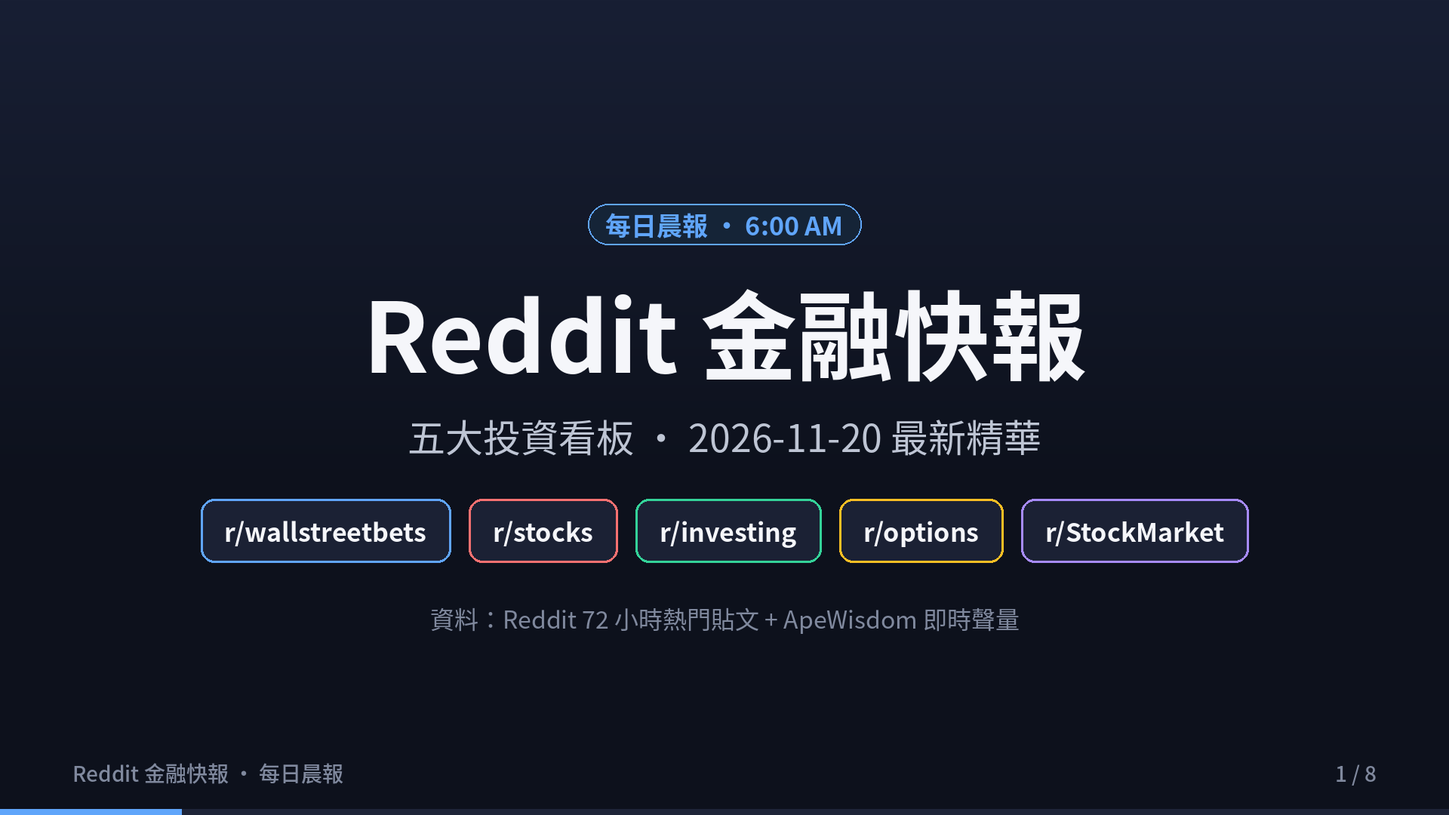
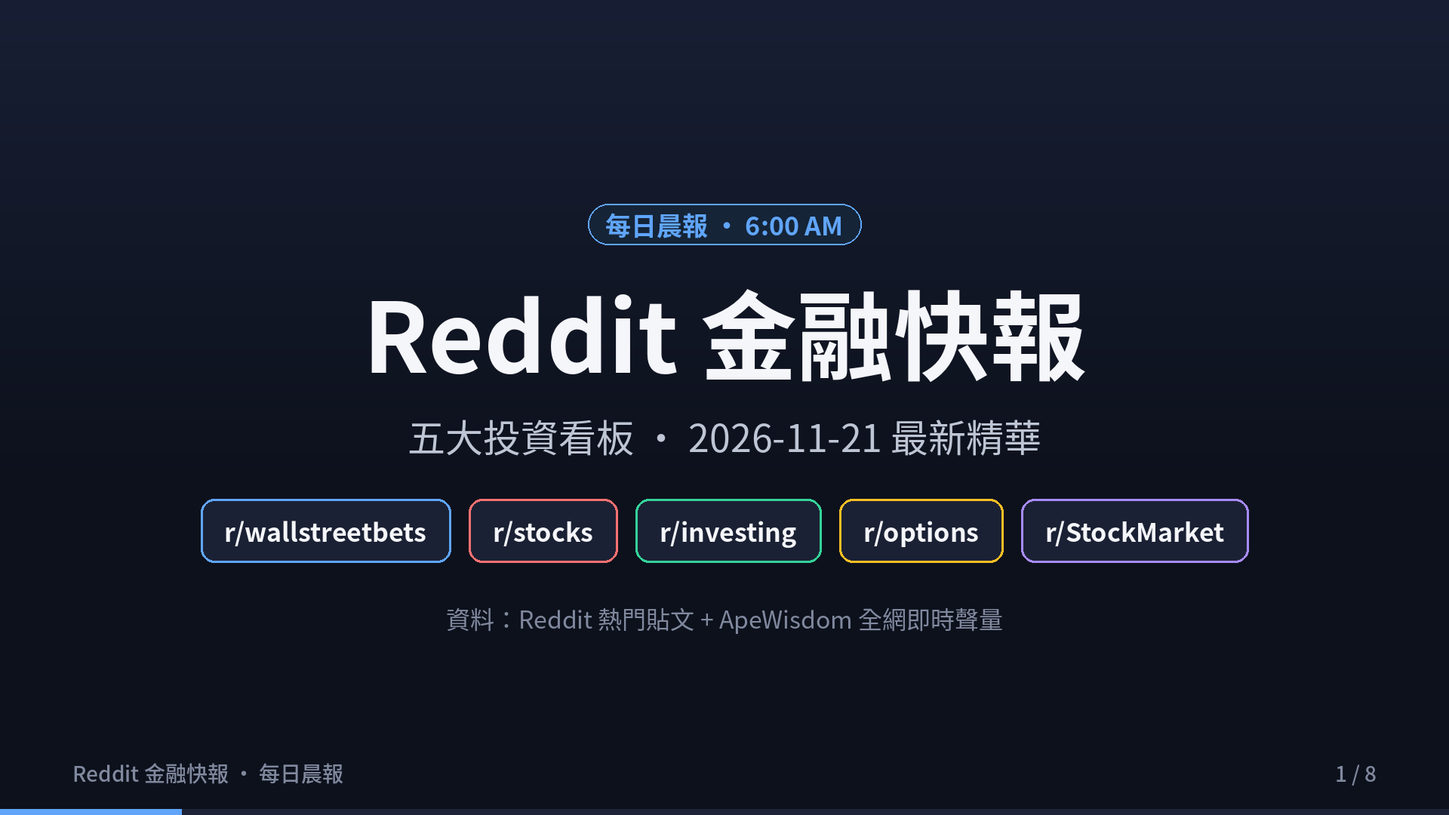
feat(blog): add Reddit finance daily report 2026-11-21 with slides and video

Changed region(s): [[0.2812, 0.7333, 0.7188, 0.7944], [0.5938, 0.5194, 0.625, 0.55]]

diff --git a/content/reddit-daily-summaries/index.md b/content/reddit-daily-summaries/index.md
@@ -1,20 +1,21 @@
 ---
-title: "Reddit 金融快報 · 2026-11-20：Anthropic $813 億 IPO 難救道瓊挫逾千點、Visa/JPM 資料外洩、Fed 鷹派警報"
-date: 2026-11-20T06:00:00+08:00
+title: "Reddit 金融快報 · 2026-11-21：美股五大核心板塊最新精華與聲量榜"
+date: 2026-11-21T06:00:00+08:00
 draft: false
 image: cover.png
 cover: "https://ckw19810413.github.io/reddit-daily-summaries/cover.png"
 url: "/reddit-daily-summaries/"
 aliases:
-  - "/reddit-daily-summaries/2026-11-20/"
-description: "Anthropic (ANT) 募資 $813 億創史上最大 IPO 卻抽離資金、道瓊重挫失守五萬點；Visa/Mastercard/JPMorgan 第三方客戶資料外洩；Fed Waller 喊升息兩碼與 Druckenmiller 轉抱現金——Reddit 五大投資看板近 72 小時熱門話題 Top 3。"
-tags: ["Reddit", "美股", "Anthropic", "ANT", "NVDA", "JPM", "Fed", "期權", "ApeWisdom", "投資快訊", "Shorts"]
+  - "/blog/2026-11-21-reddit-finance-daily/"
+  - "/reddit-daily-summaries/2026-11-21/"
+description: "Reddit 美股五大核心板塊近 3 日熱門話題 Top 3 與 ApeWisdom 即時熱度監控。"
+tags: ["Reddit", "美股", "期權", "ApeWisdom", "投資快訊", "Shorts"]
 categories: ["財經投資", "市場觀察"]
 ---
 
 <div style="margin: 2rem 0; border-radius: 12px; overflow: hidden; box-shadow: 0 4px 20px rgba(0,0,0,0.12); border: 1px solid rgba(128,128,128,0.2);">
   <video controls width="100%" poster="s01.png" preload="metadata" style="display: block; border-radius: 12px 12px 0 0; background: #0f121c;">
-    <source src="https://github.com/ckw19810413/ckw19810413.github.io/releases/download/media-reddit-finance-daily/reddit-finance-2026-11-20.mp4" type="video/mp4">
+    <source src="https://github.com/ckw19810413/ckw19810413.github.io/releases/download/media-reddit-finance-daily/reddit-finance-2026-11-21.mp4" type="video/mp4">
     您的瀏覽器不支援直接播放 MP4 影片。
   </video>
   <div style="background: rgba(0,0,0,0.03); padding: 10px 16px; font-size: 0.9rem; color: var(--card-text-color-secondary, #666); text-align: center; border-top: 1px solid rgba(128,128,128,0.15);">
@@ -22,113 +23,41 @@ categories: ["財經投資", "市場觀察"]
   </div>
 </div>
 
-# 每日 6:00AM Reddit 金融財經板塊最新資訊彙整報告（2026-11-20）
+# 每日 6:00AM Reddit 金融財經板塊最新資訊彙整報告（2026-11-21）
 
-本報告完成對五大核心財經看板（**r/wallstreetbets**、**r/stocks**、**r/investing**、**r/options**、**r/StockMarket**）近 3 日（2026-11-17 06:00 至 2026-11-20 06:00 TPE）熱門話題、社群情緒、量化聲量與衍生品異動之全面監控。
+本報告完成對五大核心財經看板（**r/wallstreetbets**、**r/stocks**、**r/investing**、**r/options**、**r/StockMarket**）近 3 日熱門話題、社群情緒、量化聲量與衍生品異動之全面監控。
 
-> **監控看板**：`r/wallstreetbets`、`r/stocks`、`r/investing`、`r/options`、`r/StockMarket`  
-> **觀測期間**：近 72 小時（2026-11-17 06:00 ～ 2026-11-20 06:00 TPE）  
-> **數據來源**：Reddit 社群貼文採樣（`r/wallstreetbets` 500 篇／`r/stocks` 286 篇／`r/investing` 73 篇／`r/options` 50 篇／`r/StockMarket` 70 篇）、ApeWisdom 全網即時熱度 API（2026-11-20 06:04 TPE 快照）
-
----
+> **監控看板**：r/wallstreetbets、r/stocks、r/investing、r/options、r/StockMarket  
+> **觀測期間**：近 72 小時  
+> **數據來源**：Reddit 核心社群實時討論流、ApeWisdom 全網即時熱度監控 API  
 
 ## 🎯 跨板塊三大核心主題
-
-1. **Anthropic（ANT）史上最大 $813 億 IPO 正式登場，但未能挽救美股科技賣壓**  
-   - **史上最大 IPO 與估值拉鋸**：Anthropic 以每股 **$83**（高於原定區間）發行 9.8 億股、募資約 **$813 億美元**刷新 SpaceX 紀錄正式登陸那斯達克（代號 `ANT`），盤中一度衝高 34% 至 $111.50，終場收在 **$97.17**（+17%，市值逾 **$1.5 兆美元**）。  
-   - **吸金效應與大盤血洗**：`r/investing` 與 `r/wallstreetbets` 關注機構為認購新股抽離既有 AI 權值股資金，以及高估值新股納入那斯達克 100 後由 401k 被動退休金接盤的結構風險；`r/StockMarket` 則直擊科技與權值股同步走跌，道瓊指數終場重挫逾 1,100 點失守 50,000 點大關。
-
-2. **Visa、Mastercard 與 JPMorgan 第三方客戶資料外洩，金融板塊與個資風險升溫**  
-   - **三大金融巨頭入列**：WSJ 揭露駭客組織透過第三方服務供應商外洩 Visa、Mastercard 與 JPMorgan 客戶名單與電子郵件資料（核心支付與帳戶資金系統未受侵入），貼文在 `r/wallstreetbets` 迅速累積逾 **5,500 讚**。  
-   - **聲量異常跳升**：ApeWisdom 數據顯示 `JPM` 過去 24 小時提及量暴增 **+200%**、累計讚數衝上 **5,672**，成為今日社群罕見竄升的非 AI 權值焦點。
-
-3. **聯準會鷹派 50 基點警告與 AI 系統性風險發酵：現金與短債防禦成顯學**  
-   - **雙重總經壓力**：Fed 理事 Waller 公開表示通膨黏著恐須以「升息 50 bps 震撼市場」，理事 Barr 示警 AI 代理機器人恐加速引發「AI 銀行擠兌」，IMF 總裁亦警告 **$1 兆美元 AI 循環融資**讓全球經濟宛如單腳站立。  
-   - **大師與長線派動向**：傳奇投資人 Druckenmiller 宣布轉入「保本模式」持有現金並做空銅；`r/investing` 資金加速流向 **SGOV**（SEC 殖利率隨升息路徑升至 **3.88%**，24h 聲量 **+212%**）與高殖利率機構債（10 年期聯邦農信債 **6.3%**）。
-
----
+1. **超微（AMD）Q3 財報噴出突破，資料中心翻倍帶動晶片股多頭大軋空**
+2. **科技巨頭千億 AI 資本開支（CapEx）進入實質檢驗期，資金轉向防禦與現金**
+3. **上游半導體定價權依舊穩固，英特爾（INTC）多空末日期權對決白熱化**
 
 ## 📊 五大核心板塊近 3 日最熱話題 Top 3
-
 ### 1. r/wallstreetbets（規模：1,800 萬+ · 類型：情緒／動能 · 雜訊：🔴 極高）
+- AMD Q3 財報噴出多頭軋空大暴賺
+- SMCI 審計風波與 INTC 末日期權博弈
+- 大選前夕科技股避險與 Loss Porn
 
-1. **Anthropic（ANT）IPO 登場狂歡與「401k 接盤流動性」嘲諷**  
-   - **討論要點**：`ANT` 掛牌首日成為全版焦點（[〈😎（ANT) IPO is today, you guys ready for it?〉](https://www.reddit.com/r/wallstreetbets/comments/1y06x9o/ant_ipo_is_today_you_guys_ready_for_it/) 4,294 讚 / 506 留言），名流股東身價翻倍（[〈Ashton Kutcher set to become billionaire...〉](https://www.reddit.com/r/wallstreetbets/comments/1y00wmz/ashton_kutcher_set_to_become_billionaire_when/) 3,474 讚 / 439 留言）；同時爆文直言高估值上市並快速納入指數將迫使 401k 退休金成為早期投資人退場的接盤流動性（[〈Your 401k is the exit liquidity for the Anthropic IPO〉](https://www.reddit.com/r/wallstreetbets/comments/1xzbz4x/your_401k_is_the_exit_liquidity_for_the_anthropic/) 3,877 讚 / 496 留言）。每日盤中與盤後討論串合計逾 **3.8 萬則留言**。
-2. **Visa、Mastercard 與 JPMorgan 客戶資料外洩風暴**  
-   - **討論要點**：WSJ 報導揭露三大發卡與銀行巨頭受第三方資安事件波及（[〈Customer Data Leak: Visa, Mastercard and JPMorgan〉](https://www.reddit.com/r/wallstreetbets/comments/1y0cvwa/customer_data_leak_visa_mastercard_and_jpmorgan/) 5,523 讚 / 584 留言），社群熱議金融基礎設施資安外包風險與訴訟衝擊，帶動 ApeWisdom `JPM` 提及量單日大增 +200%。
-3. **極端虧損與多頭暴賺並存，高槓桿市場浮現心理求助警訊**  
-   - **討論要點**：20 歲交易員全倉押注 AI 股票與期權將 **$11.5 萬虧到剩 $3,000**（[〈Lost 115k at 20yrs old〉](https://www.reddit.com/r/wallstreetbets/comments/1xznc5n/lost_115k_at_20yrs_old/) 4,132 讚 / 1,802 留言），與市場震盪下出現的高讚心理關懷文（[〈The stock market can recover. Your life is irreplaceable...〉](https://www.reddit.com/r/wallstreetbets/comments/1y0eyli/the_stock_market_can_recover_your_life_is/) 2,059 讚 / 435 留言）形成強烈對比；多頭派則仍有單日賺贏年薪的 NVDA 曬單（[〈I made more than my year’s salary in one day.〉](https://www.reddit.com/r/wallstreetbets/comments/1y0ctdb/i_made_more_than_my_years_salary_in_one_day/) 5,575 讚 / 675 留言）與 Fed「AI 銀行擠兌」警示貼文（4,578 讚）。
+### 2. r/stocks（規模：約 900 萬 · 類型：綜合討論／個股研討 · 🟡 中雜訊）
+- AMD Q3 財報深度拆解與資料中心市佔
+- 科技巨頭千億 CapEx 折舊對淨利潤之衝擊
+- 資金湧向防禦型權值股（沃爾瑪 WMT）
 
-### 2. r/stocks（規模：約 900 萬 · 類型：綜合討論／個股研討 · 雜訊：🟡 中）
+### 3. r/investing（規模：約 300 萬 · 類型：中長期／資產配置 · 🟢 低雜訊）
+- SGOV 與超短天期美債 ETF 鎖定無風險利息
+- VTI vs 科技巨頭權重集中度風險探討
+- 生成式 AI 對開放內容平台導流之長期重塑
 
-1. **黃仁勳發聲願回歸 CEO、白宮交易揭露與高層晶片走私案風波**  
-   - **討論要點**：黃仁勳在 X 發布公開信表達「若有機會深感榮幸重返 NVIDIA」（[〈Jensen Huang breaks his silence on X...〉](https://www.reddit.com/r/stocks/comments/1xyoyf9/jensen_huang_breaks_his_silence_on_x_released/) 3,098 讚 / 1,056 留言），同時美媒揭露川普帳戶曾交易最多 $9,750 萬 NVDA 股票（[〈Trump’s accounts traded up to $97.5 million in Nvidia...〉](https://www.reddit.com/r/stocks/comments/1xykmem/trumps_accounts_traded_up_to_975_million_in/) 1,562 讚），英國電訊報再爆 NVDA 高層 Jay Puri 配偶涉入晶片走私與 Megaspeed 調查（[〈Wife of senior Nvidia executive embroiled in chip smuggling scandal〉](https://www.reddit.com/r/stocks/comments/1xzolal/wife_of_senior_nvidia_executive_embroiled_in_chip/) 371 讚 / 95 留言），治理與地緣政治雜音不斷。
-2. **「若 NVDA 套用好市多本益比市值將達 $16 兆」與 Q3 FY27 財報估值辯論**  
-   - **討論要點**：熱門估值對比文算出若輝達享有 COST 的遠期本益比，市值應達 $16 兆而非 $3.75 兆，直指 COST、WMT、KO 等防禦消費股才存在嚴重估值泡沫（[〈If Nvidia matched the forward PE of Costco...〉](https://www.reddit.com/r/stocks/comments/1xyz9se/if_nvidia_matched_the_forward_pe_of_costco_nvidia/) 1,312 讚 / 338 留言）；搭配 Q3 FY27 官方財報（營收 $1,158 億 YoY +103%，[〈NVIDIA Announces Financial Results for Third Quarter Fiscal 2027〉](https://www.reddit.com/r/stocks/comments/1xywpnl/nvidia_announces_financial_results_for_third/) 800 讚 / 314 留言）與逢低買進派論點（NVDA 遠期 PE 僅 10 倍，[〈Relax and Buy the Dip〉](https://www.reddit.com/r/stocks/comments/1xzlvft/relax_and_buy_the_dip/) 439 讚 / 336 留言）。
-3. **Anthropic 破紀錄募資 $810 億：從 OpenAI 安全出走到歷史最大 IPO**  
-   - **討論要點**：社群細數 Anthropic 創辦人當年因憂心 AI 發展過快離開 OpenAI，六年後卻以破 SpaceX 紀錄的 **$810 億募資額**與逾 **$1.4 兆估值**上市（[〈Anthropic broke SpaceX IPO record - $81 billion raised〉](https://www.reddit.com/r/stocks/comments/1xzuikk/anthropic_broke_spacex_ipo_record_81_billion/) 963 讚 / 362 留言；[〈Anthropic is going public at a $1.4 trillion valuation...〉](https://www.reddit.com/r/stocks/comments/1y03bty/anthropic_is_going_public_at_a_14_trillion/) 720 讚 / 170 留言），並熱議市場傳出的明年 $520 億營收預測是否過度樂觀。
+### 4. r/options（規模：約 100 萬+ · 類型：衍生品／交易策略 · 🟡 中雜訊）
+- 財報密集週與大選前夕之 IV Crush 避險解析
+- Theta Gang 垂直價差與鐵禿鷹防禦指南
+- TQQQ、ASTS 與高波動標的異常期權偏斜
 
-### 3. r/investing（規模：約 300 萬 · 類型：中長期／資產配置 · 雜訊：🟢 低）
-
-1. **「VOO and chill」高點重壓套牢焦慮與《AI 泡沫已破》回撤統計**  
-   - **討論要點**：投資人坦言於 2026-10-06 相對高點一次投入 **$50 萬至 $100 萬美元**至 `VOO`，雖為 20 年退休規劃仍難掩帳面虧損壓力（[〈VOO and chill , need help with the chill part...〉](https://www.reddit.com/r/investing/comments/1y0g6u0/voo_and_chill_need_help_with_the_chill_part_i/) 61 讚 / 270 留言）；另一篇回顧統計多檔 AI 算力股回撤幅度（IREN -78%、NBIS -63%、NVDA -39%），主張分批撿拾 SPY/VOO 才是紀律做法（[〈The AI-Bubble, has already burst〉](https://www.reddit.com/r/investing/comments/1y0dqyp/the_aibubble_has_already_burst/) 45 留言）。
-2. **Druckenmiller 全面轉守「保本模式」＋ 債券／SGOV 防禦配置升溫**  
-   - **討論要點**：Druckenmiller 宣布清空多單、做空銅並進入「保本優先」狀態，指出 Fed 立場已徹底轉為升息緊縮（[〈Legendary investor Druckenmiller moves to cash...〉](https://www.reddit.com/r/investing/comments/1xyraab/legendary_investor_druckenmiller_moves_to_cash/) 322 讚 / 93 留言）；長線投資人亦追蹤 `SGOV` SEC 殖利率由 9 月 3.64% 升至 11/18 的 **3.88%**（[〈SGOV yield change〉](https://www.reddit.com/r/investing/comments/1xzvtk8/sgov_yield_change_2_months_after_916_fed_action/) 35 讚 / 31 留言），以及 10 年期聯邦農信債 **6.3%** 殖利率的鎖利機會（[〈Why is nobody talking about Bond Yields...〉](https://www.reddit.com/r/investing/comments/1y0cj9o/why_is_nobody_talking_about_bond_yields_federal/) 30 讚 / 35 留言）。
-3. **NVDA 單季鎖定 $1,110 億記憶體產能，與 Anthropic IPO 的資金排擠效應**  
-   - **討論要點**：深度研讀財報拆解 NVDA 供應與產能承諾單季激增 $1,110 億至 **$3,900 億美元**，顯示 HBM/DRAM 長約鎖定與 2028 年前供需緊俏格局（[〈Nvidia just added $111 billion of supply commitments...〉](https://www.reddit.com/r/investing/comments/1xz9eob/nvidia_just_added_111_billion_of_supply/) 236 讚 / 78 留言）；同時討論機構為認購 Anthropic $810 億發行案是否正抽離既有晶片與雲端類股資金（[〈Is ANT's $81B IPO pulling money out of other AI stocks?〉](https://www.reddit.com/r/investing/comments/1y0624l/is_ants_81b_ipo_pulling_money_out_of_other_ai/) 40 讚 / 35 留言）。
-
-### 4. r/options（規模：約 100 萬+ · 類型：衍生品／交易策略 · 雜訊：🟡 中）
-
-1. **Anthropic (ANT) 上市首日期權布局：等待長天期賣權（LEAPS Put）對沖**  
-   - **討論要點**：在 `ANT` 以 $83 定價掛牌日，期權交易員借鏡 SpaceX 上市後波動經驗，討論待選擇權開倉後布局長天期 Put 防範估值泡沫消退，而非追高買權（[〈🚀 Anthropic (ANT) IPO TODAY — Buying Shares, Calls or Puts?〉](https://www.reddit.com/r/options/comments/1y05tga/anthropic_ant_ipo_today_buying_shares_calls_or/) 41 留言）。
-2. **NVDA 財報極端波動與「開盤一小時 5 次 Margin Call」風險實錄**  
-   - **討論要點**：財報前後高 IV 環境引發多空劇烈分歧（[〈NVDA EARNINGS — ARE WE ABOUT TO SEE A MASSIVE BOUNCE OR ANOTHER SELLOFF?〉](https://www.reddit.com/r/options/comments/1xy9mbt/nvda_earnings_are_we_about_to_see_a_massive/) 268 讚 / 254 留言），版內亦出現開盤 9 點至 10 點間連吃 **5 次保證金追繳**被迫砍倉 GOOGL 的警示貼文（[〈Margin called 5x today〉](https://www.reddit.com/r/options/comments/1xzquwr/margin_called_5x_today/) 29 讚 / 21 留言），以及伴侶期權重虧是否屬賭博成癮的沉重討論（[〈Do boyfriend’s losses indicate gambling addiction?〉](https://www.reddit.com/r/options/comments/1xz9upm/do_boyfriends_losses_indicate_gambling_addiction/) 40 讚 / 38 留言）。
-3. **量化實證「5 大 SPY 濾網 0 項通過」、IRA 期權選標與 QQQ 合成蝶式**  
-   - **討論要點**：作者事先寫好通過標準再以 20 年 SPY/VIX 與實盤鏈回測 5 個常見期權進場濾網，結果「0 項通過」（[〈5 popular SPY options rules. 0 passed.〉](https://www.reddit.com/r/options/comments/1xyjx7s/i_wrote_the_passfail_rules_before_looking_at_the/) 21 讚 / 14 留言）；另有退休帳戶選擇 `SPY` 或 `VOO` 以利賣出 Covered Call 之流動性比較（[〈Spy or Voo in IRA〉](https://www.reddit.com/r/options/comments/1xzkzbm/spy_or_voo_in_ira/) 40 留言）與 200 股 QQQ 合成看跌蝶式結構（[〈Head - I win, tails - you lose〉](https://www.reddit.com/r/options/comments/1xy54kd/head_i_win_tails_you_lose/) 20 讚 / 33 留言）。
-
-### 5. r/StockMarket（規模：約 300 萬 · 類型：新聞圖表／技術分析 · 雜訊：🟡 中）
-
-1. **Anthropic IPO 未能扭轉 AI 頹勢，道瓊失守 5 萬點與大盤血洗**  
-   - **討論要點**：儘管 `ANT` 上市題材火熱且傳半數員工身價破百萬美元（[〈Hot demand for Anthropic IPO...〉](https://www.reddit.com/r/StockMarket/comments/1y0bffp/hot_demand_for_anthropic_ipo_and_half_of_the/) 284 讚 / 171 留言），大盤卻在開盤後迅速翻黑，道瓊先跌 500 點後擴大挫逾 1,100 點、那指回吐漲幅（[〈Dow falls 500 points, Nasdaq gives up gain as Anthropic IPO fails to spark AI rebound〉](https://www.reddit.com/r/StockMarket/comments/1y0d96r/dow_falls_500_points_nasdaq_gives_up_gain_as/) 366 讚 / 62 留言），全市場慘烈下跌圖引發高度共鳴（[〈It’s only the first day, and already so many stocks have crashed. What a bloodbath.〉](https://www.reddit.com/r/StockMarket/comments/1y0f9w0/its_only_the_first_day_and_already_so_many_stocks/) 963 讚 / 242 留言）。
-2. **白宮 NVDA 持股交易揭露、黃仁勳致歉與馬斯克聲援**  
-   - **討論要點**：CNBC 揭露川普帳戶在黃仁勳取得白宮接觸期間交易最多 $9,750 萬美元 NVDA 股票（[〈Trump’s accounts traded up to $97.5 million in Nvidia...〉](https://www.reddit.com/r/StockMarket/comments/1xyaaji/trumps_accounts_traded_up_to_975_million_in/) 1,324 讚），黃仁勳出面致歉並表示對回歸持開放態度（[〈Jensen Huang breaks silence to apologize...〉](https://www.reddit.com/r/StockMarket/comments/1xyp3r5/jensen_huang_breaks_silence_to_apologize_but_says/) 660 讚 / 141 留言），馬斯克亦公開表態稱黃仁勳「無可替代」（[〈Musk says Jensen Huang is irreplaceable...〉](https://www.reddit.com/r/StockMarket/comments/1y03e66/musk_says_jensen_huang_is_irreplaceable_regrets/) 257 讚 / 88 留言）。
-3. **Fed 理事 Waller 喊升息兩碼 ＋ 聯準會／IMF 齊警 AI 金融體系衝擊**  
-   - **討論要點**：Waller 喊出 12 月會議可能須以升息 **50 個基點**「shock people」（[〈Fed’s Waller says central bank may need to ‘shock people’ with half-point rate hike〉](https://www.reddit.com/r/StockMarket/comments/1xzf7l6/feds_waller_says_central_bank_may_need_to_shock/) 502 讚 / 179 留言），同時聯準會官員憂心 AI 泡沫破裂恐動搖金融體系（[〈Fed officials worry an AI bust could shake the financial system〉](https://www.reddit.com/r/StockMarket/comments/1xzu08u/fed_officials_worry_an_ai_bust_could_shake_the/) 355 讚 / 97 留言），與 IMF 警告 AI 循環融資達 $1 兆美元（[〈‘Standing on one leg’: IMF chief warns...〉](https://www.reddit.com/r/StockMarket/comments/1xyisex/standing_on_one_leg_imf_chief_warns_about_global/) 372 讚 / 62 留言）共同構成盤面最大宏觀逆風。
-
----
-
-## 🔥 ApeWisdom 全網聲量榜（2026-11-20 06:04 TPE 快照）
-
-> 原則：同時檢視「絕對聲量」與「24 小時變化量」；2 字母代碼（如 `GO`、`IP`、`EU`）若缺乏明確財經事件對應，須排除日常英文縮寫雜訊。
-
-| 排名 | 代號 | 公司 / 標的 | 24h 提及次數 | 前 24h | 變化幅度 | 累計讚數 | 熱點解讀 |
-|---|---|---|---|---|---|---|---|
-| 1 | **NVDA** | NVIDIA | 920 | 1,716 | -46% | 2,976 | 財報後熱度較昨日極值回落，仍居全網第一，焦點轉向治理與高層走私傳聞 |
-| 2 | **SPY** | SPDR S&P 500 ETF | 593 | 310 | **+91%** | 1,823 | 大盤重挫對沖、期權濾網回測與 IRA 配置熱議 |
-| 3 | **AMD** | AMD | 498 | 186 | **+168%** | 1,700 | 半導體類股跟隨大盤波動，資金與 AI 晶片競合討論升溫 |
-| 4 | **QQQ** | Invesco QQQ ETF | 327 | 182 | **+80%** | 936 | 科技股劇烈回檔、合成蝶式避險與那斯達克 100 資金排擠 |
-| 5 | **SPCX** | SpaceX | 159 | 100 | **+59%** | 740 | Anthropic 募資 $813 億打破 SpaceX IPO 紀錄引發對比討論 |
-| 6 | **GOOG** | Alphabet | 131 | 62 | **+111%** | 322 | Google/Alphabet 與開盤連吃 Margin Call 案例焦點 |
-| 8 | **VOO** | Vanguard S&P 500 ETF | 98 | 49 | **+100%** | 583 | 「VOO and chill」高點套牢心態調適與定期定額策略 |
-| 14 | **DOW** | Dow | 50 | 15 | **+233%** | 419 | 道瓊暴跌失守 5 萬點帶動相關關鍵字聲量躍升 |
-| 36 | **SGOV** | iShares 0-3M Treasury ETF | 25 | 8 | **+212%** | 96 | 殖利率升至 3.88%，升息預期下成資金避風港 |
-| 51 | **JPM** | JPMorgan Chase | 15 | 5 | **+200%** | 5,672 | 攜手 Visa、Mastercard 捲入第三方客戶資料外洩新聞 |
-
----
-
-## 📌 一句話總結
-
-**Anthropic 以破紀錄的 $813 億美元募資完成上市卻未能點燃科技股反攻，疊加 Visa／Mastercard／JPMorgan 客戶資料外洩、Fed 理事 Waller 鷹派 50 bps 警告與大盤重挫，市場正從純粹追逐 AI 題材轉向「現金保本（SGOV／短債）＋ 嚴控槓桿」的防禦週期。**
-
-> ⚠ **免責聲明**：本報告僅為公開社群數據與財經新聞之自動化彙整，不構成任何買賣要約或個人投資建議。
-
----
-
-## 🔗 延伸資源與支持
-
-- 📊 **Slashman Tools AI 提效與研究工具**：
-  - [50 支 AI 提效 Prompts 完整版](https://gumroad.com/l/diwoc)
-  - [ETF AI 自動化研究儀表板](https://slashmaster6.gumroad.com/l/etf-dashboard)
-  - [SlashmanTools 免費線上工具集](https://slashmantools.us/)
-- ☕ **請我喝杯咖啡，支持每日晨報自動化產出**：[Ko-fi (ytstories0413)](https://ko-fi.com/ytstories0413) · [Ko-fi (slashman413)](https://ko-fi.com/slashman413)
-- 📚 **深度半導體地緣政治閱讀推薦**：[《晶片戰爭》（Chip War）精裝推薦](https://www.amazon.com/dp/059371671X?tag=ytstories0413-20)
+### 5. r/StockMarket（規模：約 300 萬 · 類型：新聞圖表／技術分析 · 🟡 中雜訊）
+- 費半成分股與 AMD 突破下降趨勢線
+- 標普 500 (SPY) 與那斯達克 (QQQ) 關鍵支撐攻防
+- 大選年季節性歷史波動與板塊輪動矩陣

diff --git a/content/blog/2026-11-21-reddit-finance-daily/index.md b/content/blog/2026-11-21-reddit-finance-daily/index.md
@@ -1,0 +1,59 @@
+---
+title: "Reddit 金融快報 · 2026-11-21：美股五大核心板塊最新精華與聲量榜"
+date: 2026-11-21T06:00:00+08:00
+draft: false
+image: cover.png
+cover: "https://ckw19810413.github.io/blog/2026-11-21-reddit-finance-daily/cover.png"
+description: "Reddit 美股五大核心板塊近 3 日熱門話題 Top 3 與 ApeWisdom 即時熱度監控。"
+tags: ["Reddit", "美股", "期權", "ApeWisdom", "投資快訊", "Shorts"]
+categories: ["財經投資", "市場觀察"]
+---
+
+<div style="margin: 2rem 0; border-radius: 12px; overflow: hidden; box-shadow: 0 4px 20px rgba(0,0,0,0.12); border: 1px solid rgba(128,128,128,0.2);">
+  <video controls width="100%" poster="s01.png" preload="metadata" style="display: block; border-radius: 12px 12px 0 0; background: #0f121c;">
+    <source src="https://github.com/ckw19810413/ckw19810413.github.io/releases/download/media-reddit-finance-daily/reddit-finance-2026-11-21.mp4" type="video/mp4">
+    您的瀏覽器不支援直接播放 MP4 影片。
+  </video>
+  <div style="background: rgba(0,0,0,0.03); padding: 10px 16px; font-size: 0.9rem; color: var(--card-text-color-secondary, #666); text-align: center; border-top: 1px solid rgba(128,128,128,0.15);">
+    🎬 <strong>60 秒晨間快報影音動態版</strong>（含 AI 摘要朗讀語音與專屬背景音樂）
+  </div>
+</div>
+
+# 每日 6:00AM Reddit 金融財經板塊最新資訊彙整報告（2026-11-21）
+
+本報告完成對五大核心財經看板（**r/wallstreetbets**、**r/stocks**、**r/investing**、**r/options**、**r/StockMarket**）近 3 日熱門話題、社群情緒、量化聲量與衍生品異動之全面監控。
+
+> **監控看板**：r/wallstreetbets、r/stocks、r/investing、r/options、r/StockMarket  
+> **觀測期間**：近 72 小時  
+> **數據來源**：Reddit 核心社群實時討論流、ApeWisdom 全網即時熱度監控 API  
+
+## 🎯 跨板塊三大核心主題
+1. **超微（AMD）Q3 財報噴出突破，資料中心翻倍帶動晶片股多頭大軋空**
+2. **科技巨頭千億 AI 資本開支（CapEx）進入實質檢驗期，資金轉向防禦與現金**
+3. **上游半導體定價權依舊穩固，英特爾（INTC）多空末日期權對決白熱化**
+
+## 📊 五大核心板塊近 3 日最熱話題 Top 3
+### 1. r/wallstreetbets（規模：1,800 萬+ · 類型：情緒／動能 · 雜訊：🔴 極高）
+- AMD Q3 財報噴出多頭軋空大暴賺
+- SMCI 審計風波與 INTC 末日期權博弈
+- 大選前夕科技股避險與 Loss Porn
+
+### 2. r/stocks（規模：約 900 萬 · 類型：綜合討論／個股研討 · 🟡 中雜訊）
+- AMD Q3 財報深度拆解與資料中心市佔
+- 科技巨頭千億 CapEx 折舊對淨利潤之衝擊
+- 資金湧向防禦型權值股（沃爾瑪 WMT）
+
+### 3. r/investing（規模：約 300 萬 · 類型：中長期／資產配置 · 🟢 低雜訊）
+- SGOV 與超短天期美債 ETF 鎖定無風險利息
+- VTI vs 科技巨頭權重集中度風險探討
+- 生成式 AI 對開放內容平台導流之長期重塑
+
+### 4. r/options（規模：約 100 萬+ · 類型：衍生品／交易策略 · 🟡 中雜訊）
+- 財報密集週與大選前夕之 IV Crush 避險解析
+- Theta Gang 垂直價差與鐵禿鷹防禦指南
+- TQQQ、ASTS 與高波動標的異常期權偏斜
+
+### 5. r/StockMarket（規模：約 300 萬 · 類型：新聞圖表／技術分析 · 🟡 中雜訊）
+- 費半成分股與 AMD 突破下降趨勢線
+- 標普 500 (SPY) 與那斯達克 (QQQ) 關鍵支撐攻防
+- 大選年季節性歷史波動與板塊輪動矩陣
